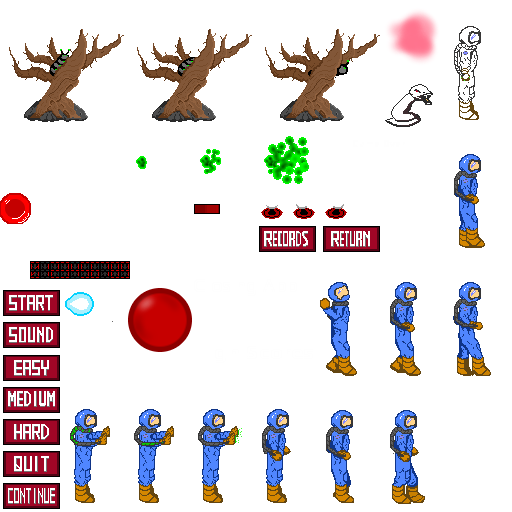
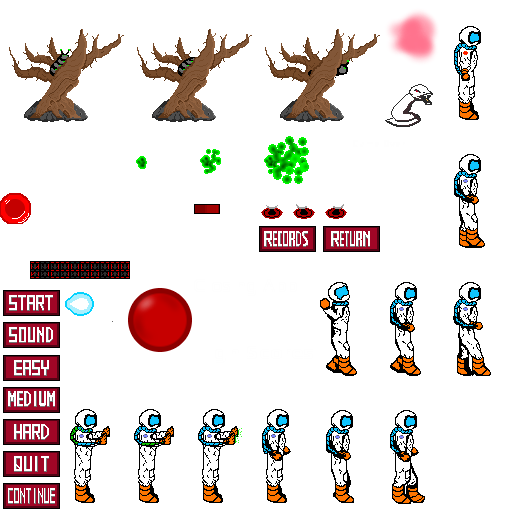
Se modifico el atlas y una porcion del codigo para lograr el efecto de que el personaje pierde color.

diff --git a/app/src/main/java/com/jgame/elements/MainCharacter.java b/app/src/main/java/com/jgame/elements/MainCharacter.java
@@ -87,7 +87,7 @@ public class MainCharacter extends GameCharacter {
     public final int LENGTH_MOVE_A = CHARACTER_LENGTH + 2;
     public final int HEIGHT_MOVE_A = CHARACTER_HEIGHT;
     private final int STUN_FRAMES = 18;
-    private final int INITIAL_HP = 3000;
+    private final int INITIAL_HP = 1000;
     private final AnimationData WALKING_ANIMATION = new AnimationData(15, true, new TextureData[]{MOVING_A, MOVING_B, MOVING_C, MOVING_D, MOVING_E});
     private final float MOVING_SPEED = 0.75f;
     private final Vector2 RIGHT_MOVE_SPEED = new Vector2(MOVING_SPEED, 0);
@@ -122,7 +122,8 @@ public class MainCharacter extends GameCharacter {
         moveA.setActiveAnimation(new AnimationData(13, false, ACTIVE_MOV_A));
         moveA.setRecoveryAnimation(new AnimationData(18, false, ACTIVE_MOV_A));
 
-        this.colorModifier = new SimpleDrawer.ColorData(1,1,0,0.65f);
+        this.color.a = 0;
+        this.colorModifier = new SimpleDrawer.ColorData(0.78f,1,0,1);
         this.maxX = maxX;
         this.minX = minX;
         this.hp = INITIAL_HP;
@@ -264,7 +265,7 @@ public class MainCharacter extends GameCharacter {
             state = CharacterState.DEAD;
         else {
             hp -= 1;
-            colorModifier.a = colorModifier.a * (float) hp / INITIAL_HP;
+            color.a = 1 - (float) hp / INITIAL_HP;
         }
 
         return Event.NONE;

diff --git a/app/src/main/java/com/jgame/game/GameRenderer.java b/app/src/main/java/com/jgame/game/GameRenderer.java
@@ -255,8 +255,8 @@ public class GameRenderer implements Renderer {
         if(c.baseX.x < 0)
             drawer.addInvertedColoredSquare(c.spriteContainer, c.getCurrentTexture(), c.color);
         else {
-            drawer.addColoredSquare(c.spriteContainer, c.getCurrentTexture(), c.color);
             drawer.addColoredSquare(c.spriteContainer, c.getCurrentTexture(), c.colorModifier);
+            drawer.addColoredSquare(c.spriteContainer, c.getCurrentTexture(), c.color);
         }
     }
 
